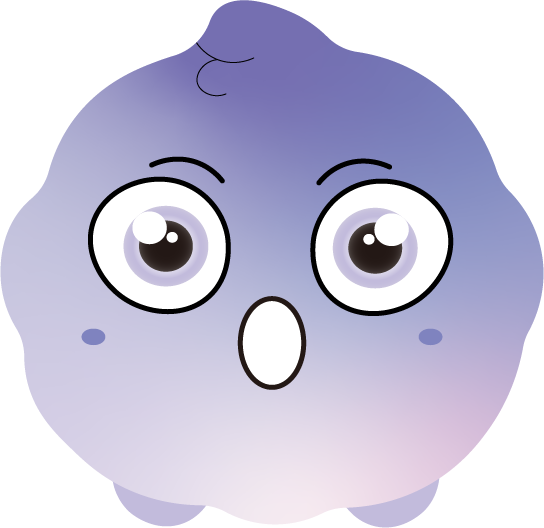
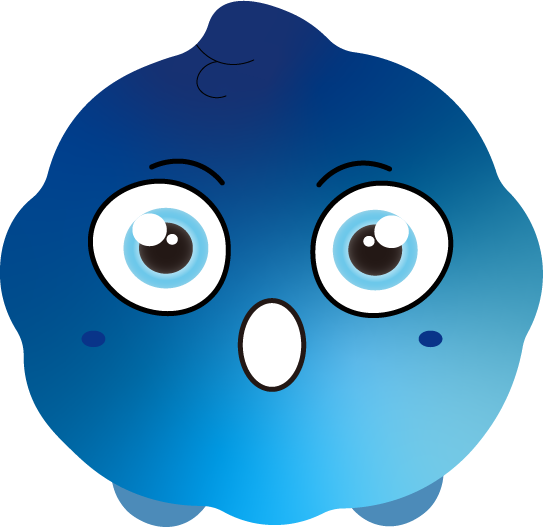
감정 색깔 수정

diff --git a/my-app/app/(tabs)/report.tsx b/my-app/app/(tabs)/report.tsx
@@ -40,9 +40,9 @@ const initialChartData = {
     labels: getLast7DaysLabels(),
     datasets: [
         { data: Array(7).fill(0), color: () => "#009944", label: "공포" },
-        { data: Array(7).fill(0), color: () => "#8800FF", label: "놀람" },
+        { data: Array(7).fill(0), color: () => "#00A0E9", label: "놀람" },
         { data: Array(7).fill(0), color: () => "#E50012", label: "분노" },
-        { data: Array(7).fill(0), color: () => "#00A0E9", label: "슬픔" },
+        { data: Array(7).fill(0), color: () => "#8800FF", label: "슬픔" },
         { data: Array(7).fill(0), color: () => "#575554", label: "중립" },
         { data: Array(7).fill(0), color: () => "#E4D354", label: "행복" },
         { data: Array(7).fill(0), color: () => "#EF8BB6", label: "혐오" }
